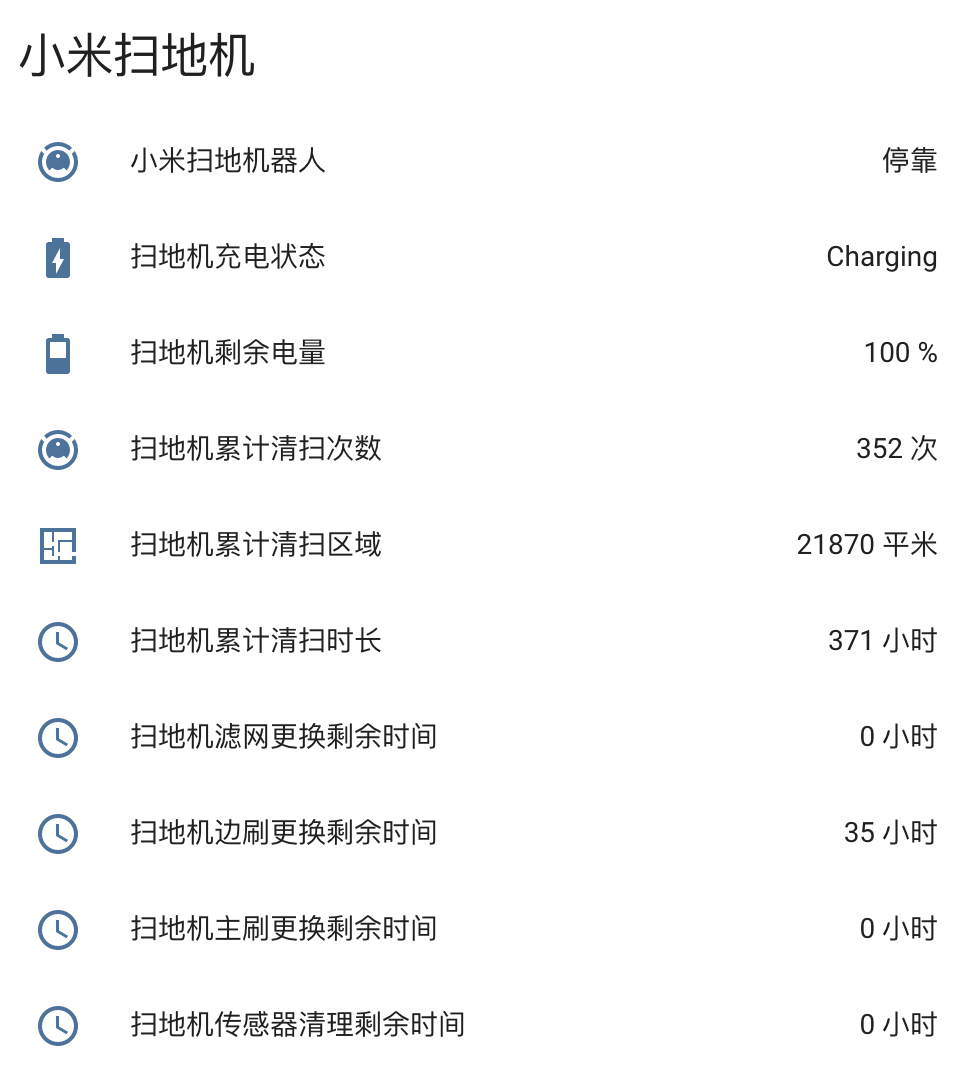
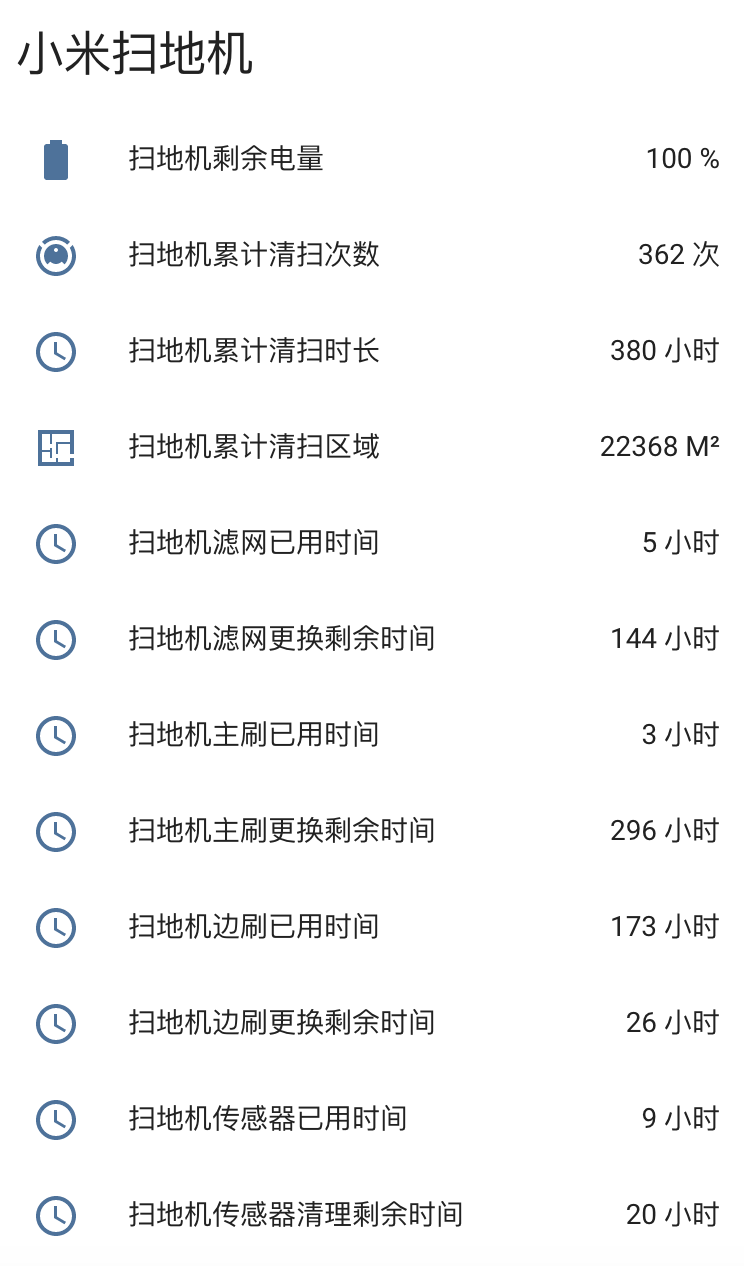
调整扫地机说明

diff --git a/mi_vacuum_cleaner/custom_components/mi_vacuum_cleaner/sensor.py b/mi_vacuum_cleaner/custom_components/mi_vacuum_cleaner/sensor.py
@@ -8,9 +8,9 @@ _LOGGER = logging.getLogger(__name__)
 
 SENSOR_TYPES = {
     'battery': ['status().battery', 'battery', '%', None],
-    'count': ['clean_history().count', None, None, None],
+    'count': ['clean_history().count', 'robot-vacuum', None, None],
     'total_duration': ['clean_history().total_duration', 'clock-outline', 'H', 'hours'],
-    'total_area': ['clean_history().total_area', None, 'M²', 'meter'],
+    'total_area': ['clean_history().total_area', 'floor-plan', 'M²', 'meter'],
     'main_brush': ['consumable_status().main_brush', 'clock-outline', 'H', 'hours'],
     'main_brush_left': ['consumable_status().main_brush_left', 'clock-outline', 'H', 'hours'],
     'side_brush': ['consumable_status().side_brush', 'clock-outline', 'H', 'hours'],

diff --git a/mi_vacuum_cleaner/README.md b/mi_vacuum_cleaner/README.md
@@ -1,10 +1,26 @@
 # Home Assistant 小米扫地机器人组件
 
+扫地机提供官方的功能，额外提供了以下传感器属性
+
+- 剩余电量
+- 累计清扫次数
+- 累计清扫时长
+- 累计清扫区域
+- 滤网已用时间
+- 滤网更换剩余时间
+- 主刷已用时间
+- 主刷更换剩余时间
+- 边刷已用时间
+- 边刷更换剩余时间
+- 传感器已用时间
+- 传感器清理剩余时间
+
 ![Screenshot1](./images/screenshot1.png)
 
 ## 安装
 
-1. 将目录 [packages] 下的 ```mi_vacuum_cleaner.yaml``` 文件复制到你的 [packages] 下
+1. 将目录 ```[custom_components]``` 下的 ```[mi_vacuum_cleaner]``` 文件夹及文件夹下所有文件复制到 ```你的[custom_components]``` 下
+1. 将目录 ```[packages]``` 下的 ```mi_vacuum_cleaner.yaml``` 文件复制到你的 ```[packages]``` 下
 2. 获取小米扫地机器人 IP 及 Token 并修改 ```mi_vacuum_cleaner.yaml``` 文件
-3. 修改 ```你的customize.yaml``` 文件，增加 ```customize.yaml``` 中的内容
+3. 修改 ```你的customize.yaml``` 文件，增加 ```customize.yaml``` 中的内容，```customize.yaml``` 中的内容可自行调整
 4. 重启 HA 服务
